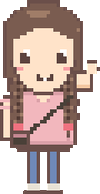
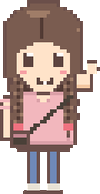
feat(insync): rework nana's face after feedback

Changed region(s): [[0.12, 0.0928, 0.75, 0.4948]]

diff --git a/tools/insync-sprites/generate_sprites.py b/tools/insync-sprites/generate_sprites.py
@@ -262,24 +262,24 @@ def draw_hair_back(g: Grid, p: Pose, style: Style) -> None:
 def draw_head(g: Grid, p: Pose, style: Style) -> None:
     dy, dx = p.bob + p.jump, p.lean
     if style.big_head:
-        # chibi skull: x14..33, y11..21, then a gentle two-step taper to a
-        # soft rounded chin at y31 — the melon-seed face, on a much bigger head
+        # chibi skull: x14..33, y11..21, cheeks that stay full down past the
+        # eyes and a short five-row taper to a small chin at y31 — a soft
+        # oval face; the long taper of the first pass read as an egg
         for y in range(11 + dy, 22 + dy):
             g.hline(14 + dx, 33 + dx, y, "skin")
-        for y, x0 in ((22, 15), (23, 15), (24, 16), (25, 16), (26, 17), (27, 17), (28, 18)):
+        for y, x0 in ((22, 15), (23, 15), (24, 15), (25, 16), (26, 17),
+                      (27, 18), (28, 19)):
             xr = 47 - x0
             g.hline(x0 + dx, xr + dx, y + dy, "skin")
             g.plot(x0 - 1 + dx, y + dy, "outline")
             g.plot(xr + 1 + dx, y + dy, "outline")
-        g.hline(19 + dx, 28 + dx, 29 + dy, "skin")
-        g.plot(18 + dx, 29 + dy, "outline")
-        g.plot(29 + dx, 29 + dy, "outline")
+        g.hline(20 + dx, 27 + dx, 29 + dy, "skin")
+        g.plot(19 + dx, 29 + dy, "outline")
+        g.plot(28 + dx, 29 + dy, "outline")
         g.hline(21 + dx, 26 + dx, 30 + dy, "skin")
-        g.plot(19 + dx, 30 + dy, "outline")
         g.plot(20 + dx, 30 + dy, "outline")
         g.plot(27 + dx, 30 + dy, "outline")
-        g.plot(28 + dx, 30 + dy, "outline")
-        g.hline(21 + dx, 26 + dx, 31 + dy, "outline")
+        g.hline(22 + dx, 25 + dx, 31 + dy, "outline")
     else:
         # skull: x14..33, y8..26
         for y in range(9 + dy, 26 + dy):
@@ -297,30 +297,31 @@ def draw_head(g: Grid, p: Pose, style: Style) -> None:
 
 def draw_hair_front(g: Grid, p: Pose, dx: int, dy: int, style: Style) -> None:
     if style.combed_back:
-        # combed back from the hairline: a smooth dome, the forehead stays
-        # open (no bangs) and the hair follows the hairline down past the
-        # temples into side locks where the braids take over — as in the photo
+        # combed back from the hairline: the hair mass comes all the way down
+        # over the forehead and the temples, leaving only a small arched sliver
+        # of skin above the eyes — no bangs, but no bald dome either, which is
+        # what made the first pass read as a big forehead
         g.hline(20 + dx, 27 + dx, 6 + dy, "hair")
         g.hline(18 + dx, 29 + dx, 7 + dy, "hair")
         g.hline(16 + dx, 31 + dx, 8 + dy, "hair")
         g.hline(15 + dx, 32 + dx, 9 + dy, "hair")
         g.hline(14 + dx, 33 + dx, 10 + dy, "hair")
-        g.hline(13 + dx, 34 + dx, 11 + dy, "hair")
-        g.hline(13 + dx, 34 + dx, 12 + dy, "hair")
-        # the hairline: the hair's front edge follows the hairline — highest in
-        # the middle of the forehead, sweeping down over the temples
-        g.hline(13 + dx, 20 + dx, 13 + dy, "hair")
-        g.hline(27 + dx, 34 + dx, 13 + dy, "hair")
-        g.hline(13 + dx, 18 + dx, 14 + dy, "hair")
-        g.hline(29 + dx, 34 + dx, 14 + dy, "hair")
-        g.hline(13 + dx, 16 + dx, 15 + dy, "hair")
-        g.hline(31 + dx, 34 + dx, 15 + dy, "hair")
-        # side locks gathering down past the temples to the ear
-        g.vline(13 + dx, 10 + dy, 21 + dy, "hair")
-        g.vline(14 + dx, 16 + dy, 21 + dy, "hair")
-        g.vline(34 + dx, 10 + dy, 21 + dy, "hair")
-        g.vline(33 + dx, 16 + dy, 21 + dy, "hair")
-        # silhouette outline
+        for y in range(11 + dy, 17 + dy):
+            g.hline(13 + dx, 34 + dx, y, "hair")
+        # the hairline: a narrow arch of skin (x21..26) opens below the part
+        # and widens downward, while the hair sweeps on down over the temples
+        g.hline(13 + dx, 20 + dx, 17 + dy, "hair")
+        g.hline(27 + dx, 34 + dx, 17 + dy, "hair")
+        g.hline(13 + dx, 18 + dx, 18 + dy, "hair")
+        g.hline(29 + dx, 34 + dx, 18 + dy, "hair")
+        g.hline(13 + dx, 16 + dx, 19 + dy, "hair")
+        g.hline(31 + dx, 34 + dx, 19 + dy, "hair")
+        # three columns of hair down each cheek to the jaw: the face keeps a
+        # narrow 16px window between them, the way the reference's hair falls
+        for y in range(20 + dy, 26 + dy):
+            for x in (13, 14, 15, 32, 33, 34):
+                g.plot(x + dx, y, "hair")
+        # silhouette outline, carried down the locks to the jaw
         g.hline(19 + dx, 28 + dx, 5 + dy, "outline")
         g.plot(19 + dx, 6 + dy, "outline")
         g.plot(28 + dx, 6 + dy, "outline")
@@ -332,8 +333,10 @@ def draw_hair_front(g: Grid, p: Pose, dx: int, dy: int, style: Style) -> None:
         g.plot(33 + dx, 9 + dy, "outline")
         g.plot(13 + dx, 10 + dy, "outline")
         g.plot(34 + dx, 10 + dy, "outline")
-        g.vline(12 + dx, 11 + dy, 21 + dy, "outline")
-        g.vline(35 + dx, 11 + dy, 21 + dy, "outline")
+        g.vline(12 + dx, 11 + dy, 25 + dy, "outline")
+        g.vline(35 + dx, 11 + dy, 25 + dy, "outline")
+        # the part: one shadow pixel per row down the middle of the hair mass
+        g.vline(23 + dx, 10 + dy, 15 + dy, "hair_shadow")
         # shine
         g.hline(19 + dx, 25 + dx, 8 + dy, "hair_light")
         g.hline(20 + dx, 24 + dx, 9 + dy, "hair_light")
@@ -472,39 +475,43 @@ def draw_braids(g: Grid, p: Pose, style: Style) -> None:
 
 
 def draw_face(g: Grid, p: Pose, dx: int, dy: int, style: Style) -> None:
-    # the chibi face sits lower in its much taller head, with more room
-    # between the eyes and the chin
-    eye_y = (19 if style.big_head else 17) + dy
+    # the chibi face sits low in its much taller head: the hairline now stops
+    # just above the eyes, so the eyes move down with it and the mouth keeps
+    # two quiet rows above the chin
+    eye_y = (20 if style.big_head else 17) + dy
+    eyes = (18, 27) if style.big_head else (17, 28)
     if p.eyes == "open":
-        eye_h = 3 if style.big_head else 2  # the chibi has taller, rounder eyes
-        for ex in (17, 28):
+        for ex in eyes:
             if style.big_head:
-                g.hline(ex + 1 + dx, ex + 2 + dx, eye_y, "eye")
-                g.rect(ex + dx, eye_y + 1, ex + 2 + dx, eye_y + eye_h, "eye")
+                # 3x4 almond, one row taller than momo's: the catchlight is a
+                # bright top edge on the same side of both eyes, so the pair
+                # reads with one light
+                g.rect(ex + dx, eye_y, ex + 2 + dx, eye_y + 3, "eye")
+                g.plot(ex + 1 + dx, eye_y, "white")
+                g.plot(ex + 2 + dx, eye_y, "white")
             else:
+                eye_h = 2
                 g.rect(ex + dx, eye_y, ex + 2 + dx, eye_y + eye_h, "eye")
-            g.plot(ex + 2 + dx, eye_y, "white")
-            g.plot(ex + 1 + dx, eye_y, "white")
-            if style.big_head:
-                g.plot(ex + 2 + dx, eye_y + 1, "white")
+                g.plot(ex + 2 + dx, eye_y, "white")
+                g.plot(ex + 1 + dx, eye_y, "white")
     elif p.eyes == "wide":
-        for ex in (17, 28):
+        for ex in eyes:
             g.rect(ex + dx, eye_y - 1, ex + 2 + dx, eye_y + 3, "eye")
             g.plot(ex + 2 + dx, eye_y - 1, "white")
             g.plot(ex + 1 + dx, eye_y, "white")
     elif p.eyes == "half":
-        for ex in (17, 28):
+        for ex in eyes:
             g.rect(ex + dx, eye_y + 1, ex + 2 + dx, eye_y + 2, "eye")
             g.plot(ex + 2 + dx, eye_y + 1, "white")
     elif p.eyes == "closed":
-        g.hline(17 + dx, 19 + dx, eye_y + 2, "eye")
-        g.hline(28 + dx, 30 + dx, eye_y + 2, "eye")
+        for ex in eyes:
+            g.hline(ex + dx, ex + 2 + dx, eye_y + 2, "eye")
     elif p.eyes == "happy":
-        for ex in (17, 28):
+        for ex in eyes:
             g.plot(ex + dx, eye_y + 2, "eye")
             g.plot(ex + 1 + dx, eye_y + 1, "eye")
             g.plot(ex + 2 + dx, eye_y + 2, "eye")
-    mouth_y = (26 if style.big_head else 22) + dy
+    mouth_y = (27 if style.big_head else 22) + dy
     if p.mouth == "smile":
         g.plot(23 + dx, mouth_y, "eye")
         g.plot(24 + dx, mouth_y + 1, "eye")
@@ -522,9 +529,9 @@ def draw_face(g: Grid, p: Pose, dx: int, dy: int, style: Style) -> None:
         g.plot(24 + dx, mouth_y + 1, "white")
     if p.blush:
         if style.big_head:
-            # a soft tick under the outer corner of each eye
-            g.hline(16 + dx, 17 + dx, 24 + dy, "blush")
-            g.hline(30 + dx, 31 + dx, 24 + dy, "blush")
+            # a soft tick under the outer half of each eye
+            g.hline(17 + dx, 18 + dx, 25 + dy, "blush")
+            g.hline(29 + dx, 30 + dx, 25 + dy, "blush")
         else:
             g.hline(15 + dx, 16 + dx, 21 + dy, "blush")
             g.hline(31 + dx, 32 + dx, 21 + dy, "blush")

diff --git a/docs/insync/sprite-assets.md b/docs/insync/sprite-assets.md
@@ -21,11 +21,14 @@ tools/insync-sprites/
 **Nana**：Q 版**大头短腿**比例（头占身高近一半、躯干短、腿短鞋厚，接近二次元
 游戏常见的 chibi 头身），按真实人物特征 redesign：深棕色双麻花辫（贴脸而下、
 搭在肩膀**身前**垂到发绳，含发绳与行走摆动）+ 玫瑰粉无袖上衣 + 斜挎包带 +
-瓜子脸（渐收轮廓、圆润下巴，不做刻意尖下巴）；头发**贴着发际线向后梳**，没有
-刘海——额头完全露出，发际线是从额中向两侧太阳穴下探的弧线，头发在鬓角汇入
-辫子。无呆毛。第一版肤色/描边直接取照片色，观感发黄发黑；已提亮为暖 ivory
-肤色 + 软暖褐描边。形状与 Momo 明显不同（大头比例、辫子垂在胸前、无抽绳与
-口袋、领口为弧形），因此不适合用调色板变体表达。
+瓜子脸（脸颊到眼下仍然饱满，随后五行短收到一个小下巴，不做刻意尖下巴）；
+头发**贴着发际线向后梳**，没有刘海——发团从 y5 一路盖到 y19，发际线是额中
+x21..26 开口、再向下逐渐加宽的一道窄拱，额前只留 2–3 行皮肤；y20 起头发在
+两侧各收成 3 像素鬓发（x13..15 / x32..34），把脸框在 16 像素宽的窗口里，再沿
+下颌汇入辫子；中分处一笔 `hair_shadow` 读出分缝。无呆毛。眼睛是 3×4 的竖长
+杏眼、上排两像素高光，腮红在 y25、嘴在 y27。第一版肤色/描边直接取照片色，
+观感发黄发黑；已提亮为暖 ivory 肤色 + 软暖褐描边。形状与 Momo 明显不同（大头
+比例、辫子垂在胸前、无抽绳与口袋、领口为弧形），因此不适合用调色板变体表达。
 
 **结构旗标**：绘制函数按 `Style` 旗标（`braids` / `combed_back` /
 `sleeveless` / `strap` / `big_head` / `ahoge`）分支，而不是按角色名分支——
@@ -35,11 +38,11 @@ tools/insync-sprites/
 搭肩垂到发绳，行走循环 ±1px 摆动、发绳用角色 accent 色，辫身每两行向外鼓一
 像素读出麻花的阶梯感。
 
-`big_head` 是唯一的比例旗标：头部放大到 y7..31（更大的头骨 + 瓜子脸收窄 + 更
-大更圆的杏眼），躯干压缩到 y32..45，腿变短、鞋加厚，但**落地线与 Momo 保持
-一致**（脚底描边同样在 y59）——桌宠窗口固定 192×256，两个角色必须站在同一条
-地平线上，否则切角色时会显得悬空。`big_head` 目前与 `sleeveless` 搭配（只有
-Nana）：chibi 分支只画无袖领口，帽领/抽绳/口袋仍走 Momo 路径。
+`big_head` 是唯一的比例旗标：头部（含发团轮廓）从 y5 到下颌 y31（更大的头骨 +
+瓜子脸收窄 + 更大更圆的杏眼），躯干压缩到 y32..45，腿变短、鞋加厚，但**落地线
+与 Momo 保持一致**（脚底描边同样在 y59）——桌宠窗口固定 192×256，两个角色必须
+站在同一条地平线上，否则切角色时会显得悬空。`big_head` 目前与 `sleeveless`
+搭配（只有 Nana）：chibi 分支只画无袖领口，帽领/抽绳/口袋仍走 Momo 路径。
 
 逻辑分辨率 48×64，输出 4 倍放大（192×256/帧），
 nearest-neighbor 保证像素锐利。
